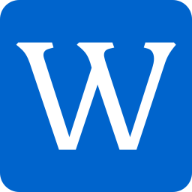
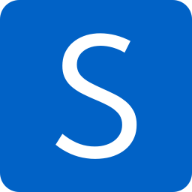
New home (#29)
* Update favicons

* rename home route

* Add front page

Changed region(s): [[0.0625, 0.1562, 0.9375, 0.8438]]

diff --git a/resources/js/Pages/Home.vue b/resources/js/Pages/Home.vue
@@ -1,0 +1,226 @@
+<script setup>
+import { ref, computed } from "vue";
+import { Head, useForm, Link } from "@inertiajs/inertia-vue3";
+import SearchBar from "../components/SearchBar.vue";
+import WordResult from "../components/WordResult.vue";
+import NavBar from "../components/NavBar.vue";
+import Pagination from "../components/Pagination.vue";
+import MobileMenu from "../components/MobileMenu.vue";
+
+let searchString = "";
+
+const newWord = useForm({
+    word: "",
+    translation: "",
+    example_sentence: "",
+});
+
+const props = defineProps({
+    canLogin: Boolean,
+    canRegister: Boolean,
+    isLoggedIn: Boolean,
+    words: Array,
+    pagination: Object,
+    searchString: String,
+    letter: String,
+    randomWord: String,
+    featuredWord: Object,
+});
+
+const form = useForm({
+    page: 1,
+    searchString: "",
+});
+
+const letterForm = useForm({
+    page: 1,
+    letter: "",
+});
+
+const handlePageChange = (pageNumber) => {
+    if (props.letter) {
+        letterForm.letter = props.letter;
+        letterForm.page = pageNumber;
+        letterForm.get(route("letter", props.letter), {
+            letter: letterForm.letter,
+            page: letterForm.page,
+        });
+    } else {
+        form.page = pageNumber;
+        form.searchString = props.searchString;
+        form.post(route("search", { searchTerm: form.searchString }), {
+            searchString: form.searchString,
+            page: pageNumber,
+        });
+    }
+};
+
+const currentPageStartsAt = computed(() => {
+    return (
+        props.pagination.page * props.pagination.perPage -
+        props.pagination.perPage +
+        1
+    );
+});
+
+const currentPageEndsAt = computed(() => {
+    return Math.min(
+        props.pagination.page * props.pagination.perPage,
+        props.pagination.total
+    );
+});
+
+const today = () => {
+    const options = { year: "numeric", month: "long", day: "numeric" };
+    return new Date().toLocaleDateString(undefined, options);
+};
+</script>
+
+<template>
+    <Head title="Shetland dictionary" />
+
+    <div
+        class="
+            items-top
+            justify-center
+            min-h-screen
+            bg-gray-100
+            dark:bg-gray-900
+            sm:items-center sm:pt-0
+        "
+        style="padding-bottom: 25px"
+    >
+        <NavBar
+            :can-login="canLogin"
+            :can-register="canRegister"
+            :is-logged-in="isLoggedIn"
+            @set-search="searchString = $event"
+            @suggest-word="toggleSuggestWordForm(true)"
+        />
+
+        <div
+            className="bg-white shadow-lg rounded-lg mx-4 p-2 md:mx-auto my-8 max-w-lg md:max-w-2xl"
+        >
+            <div class="mb-8">
+                <p class="flex text-xl justify-center mb-2 dark:text-white">
+                    <b>Spaektionary</b>
+                </p>
+                <p class="dark:text-white mb-4">
+                    Welcome to the dictionary by and for Shetlanders!
+                </p>
+
+                <p class="dark:text-white mb-4">
+                    Help us make this dictionary better by adding your voice to
+                    the words and expressions. And help us by adding the words
+                    and expressions that are missing!
+                </p>
+
+                <p class="dark:text-white mb-4">
+                    We will map the words and expressions by location to show a
+                    fuller picture of Shaetlan speech.
+                </p>
+
+                <div class="dark:text-white mb-4" style="display: block">
+                    To get started, you can search for a word or phrase in the
+                    search bar above, or click on browse in the menu to browse
+                    by letter. If you want to contribute, click
+                    <Link
+                        class="text-sm text-gray-700 underline"
+                        :href="route('register')"
+                        style="display: inline-flex !important"
+                    >
+                        <h2
+                            className="
+                                font-semibold
+                                text-lg
+                                text-gray-900
+                                -mt-1
+                                dark:text-white
+                                dark:border-b
+                            "
+                        >
+                            here
+                        </h2>
+                    </Link>
+                    to register!
+                </div>
+
+                <div class="dark:text-white mb-2 flex" style="display: block">
+                    Our featured entry for {{ today() }} is
+
+                    <Link
+                        :href="
+                            route('word.comments', { word: featuredWord.slug })
+                        "
+                        class="text-sm text-gray-700 underline"
+                        style="display: inline-flex !important"
+                    >
+                        <h2
+                            className="
+                                font-semibold
+                                text-lg
+                                text-gray-900
+                                -mt-1
+                                dark:text-white
+                                dark:border-b
+                            "
+                        >
+                            {{ featuredWord.word }}
+                        </h2>
+                    </Link>
+                    .
+                    <span>Click to find out more!</span>
+                </div>
+            </div>
+        </div>
+    </div>
+</template>
+
+<style scoped>
+.bg-gray-100 {
+    background-color: #f7fafc;
+    background-color: rgba(247, 250, 252, var(--tw-bg-opacity));
+}
+
+.text-gray-500 {
+    color: #a0aec0;
+    color: rgba(160, 174, 192, var(--tw-text-opacity));
+}
+
+.text-gray-600 {
+    color: #718096;
+    color: rgba(113, 128, 150, var(--tw-text-opacity));
+}
+
+.text-gray-700 {
+    color: #4a5568;
+    color: rgba(74, 85, 104, var(--tw-text-opacity));
+}
+
+.text-gray-900 {
+    color: #1a202c;
+    color: rgba(26, 32, 44, var(--tw-text-opacity));
+}
+
+@media (prefers-color-scheme: dark) {
+    .dark\:bg-gray-800 {
+        background-color: #2d3748;
+        background-color: rgba(45, 55, 72, var(--tw-bg-opacity));
+    }
+
+    .dark\:bg-gray-900 {
+        background-color: #1a202c;
+        background-color: rgba(26, 32, 44, var(--tw-bg-opacity));
+    }
+
+    .dark\:border-gray-700 {
+        border-color: #4a5568;
+        border-color: rgba(74, 85, 104, var(--tw-border-opacity));
+    }
+
+    .dark\:text-white {
+        color: #fff;
+        color: rgba(255, 255, 255, var(--tw-text-opacity));
+    }
+}
+</style>

diff --git a/routes/web.php b/routes/web.php
@@ -37,6 +37,32 @@ Route::get('/', function () {
         'pages' => ceil($total / $pageTotal),
     ];
 
+    $randomWord = DB::table('words')->inRandomOrder()->first()->slug;
+    $wordOfTheDay = DB::table('words')->inRandomOrder()->first();
+
+    return Inertia::render('Home', [
+        'canLogin' => Route::has('login'),
+        'canRegister' => Route::has('register'),
+        'laravelVersion' => Application::VERSION,
+        'isLoggedIn' => Auth::check(),
+        'phpVersion' => PHP_VERSION,
+        'words' => app(WordService::class)->findAllWordsWithPagination('', $pagination),
+        'randomWord' => $randomWord,
+        'featuredWord' => app(WordService::class)->findByWord($wordOfTheDay->word),
+        'pagination' => $pagination,
+    ]);
+})->name('home');
+
+Route::get('/words', function () {
+    $total = app(WordService::class)->findBy()->count();
+    $pageTotal = request('perPage') ?? 10;
+    $pagination = [
+        'page' => request('page') ?? 1,
+        'perPage' => request('perPage') ?? 10,
+        'total' => $total,
+        'pages' => ceil($total / $pageTotal),
+    ];
+
     return Inertia::render('Welcome', [
         'canLogin' => Route::has('login'),
         'canRegister' => Route::has('register'),
@@ -47,7 +73,7 @@ Route::get('/', function () {
         'randomWord' => DB::table('words')->inRandomOrder()->first()->slug,
         'pagination' => $pagination,
     ]);
-})->name('home');
+})->name('words');
 
 Route::get('/search', function () {
     $searchTerm = '';
